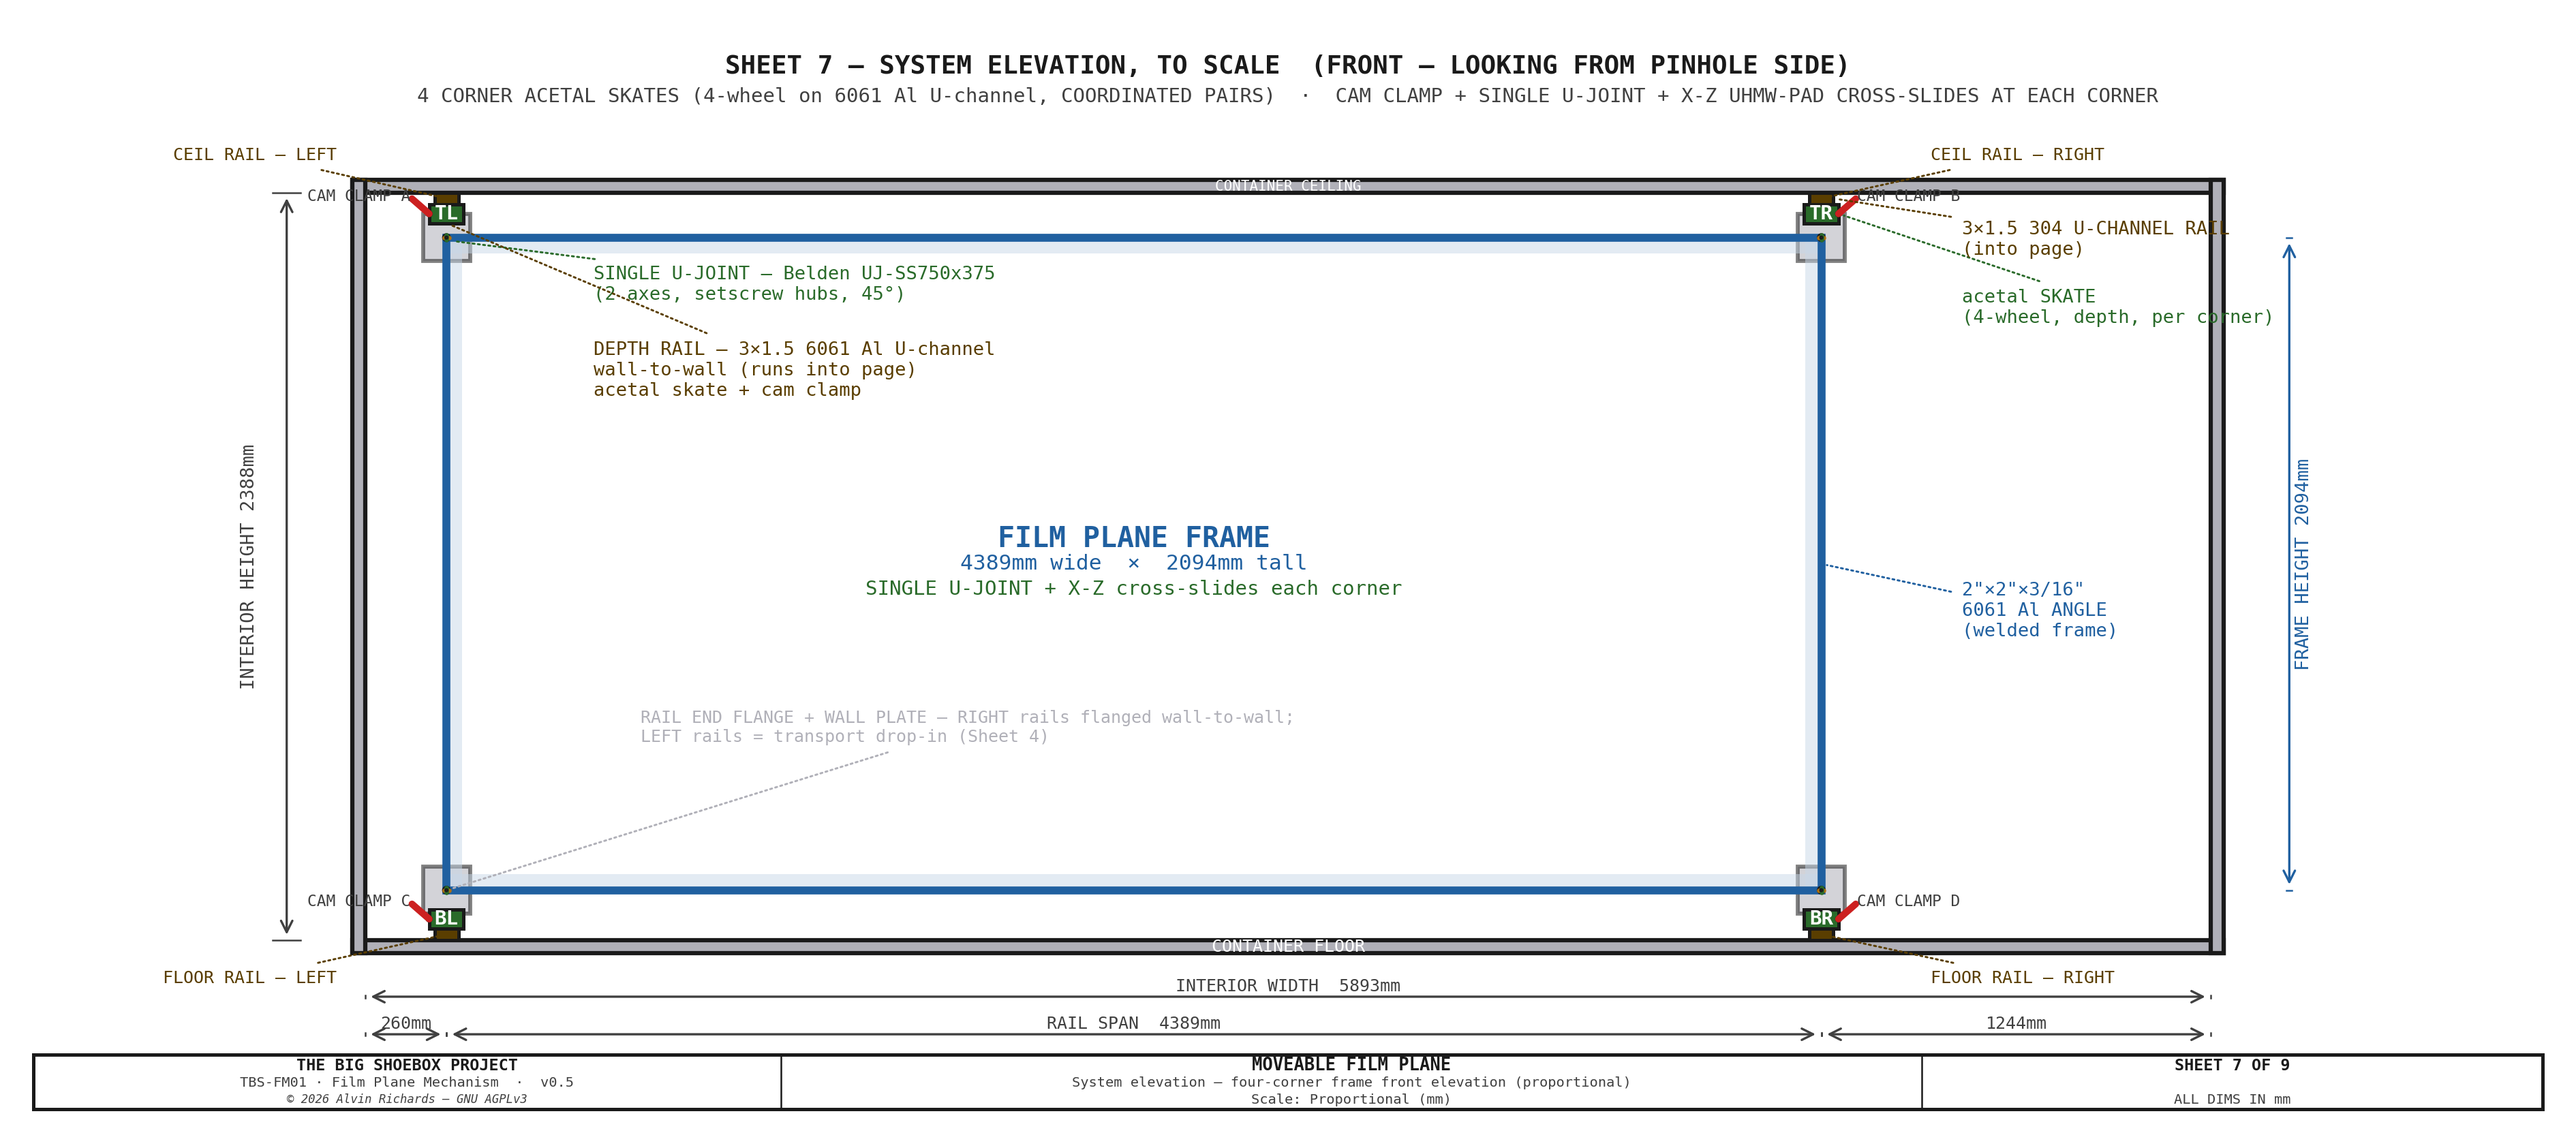
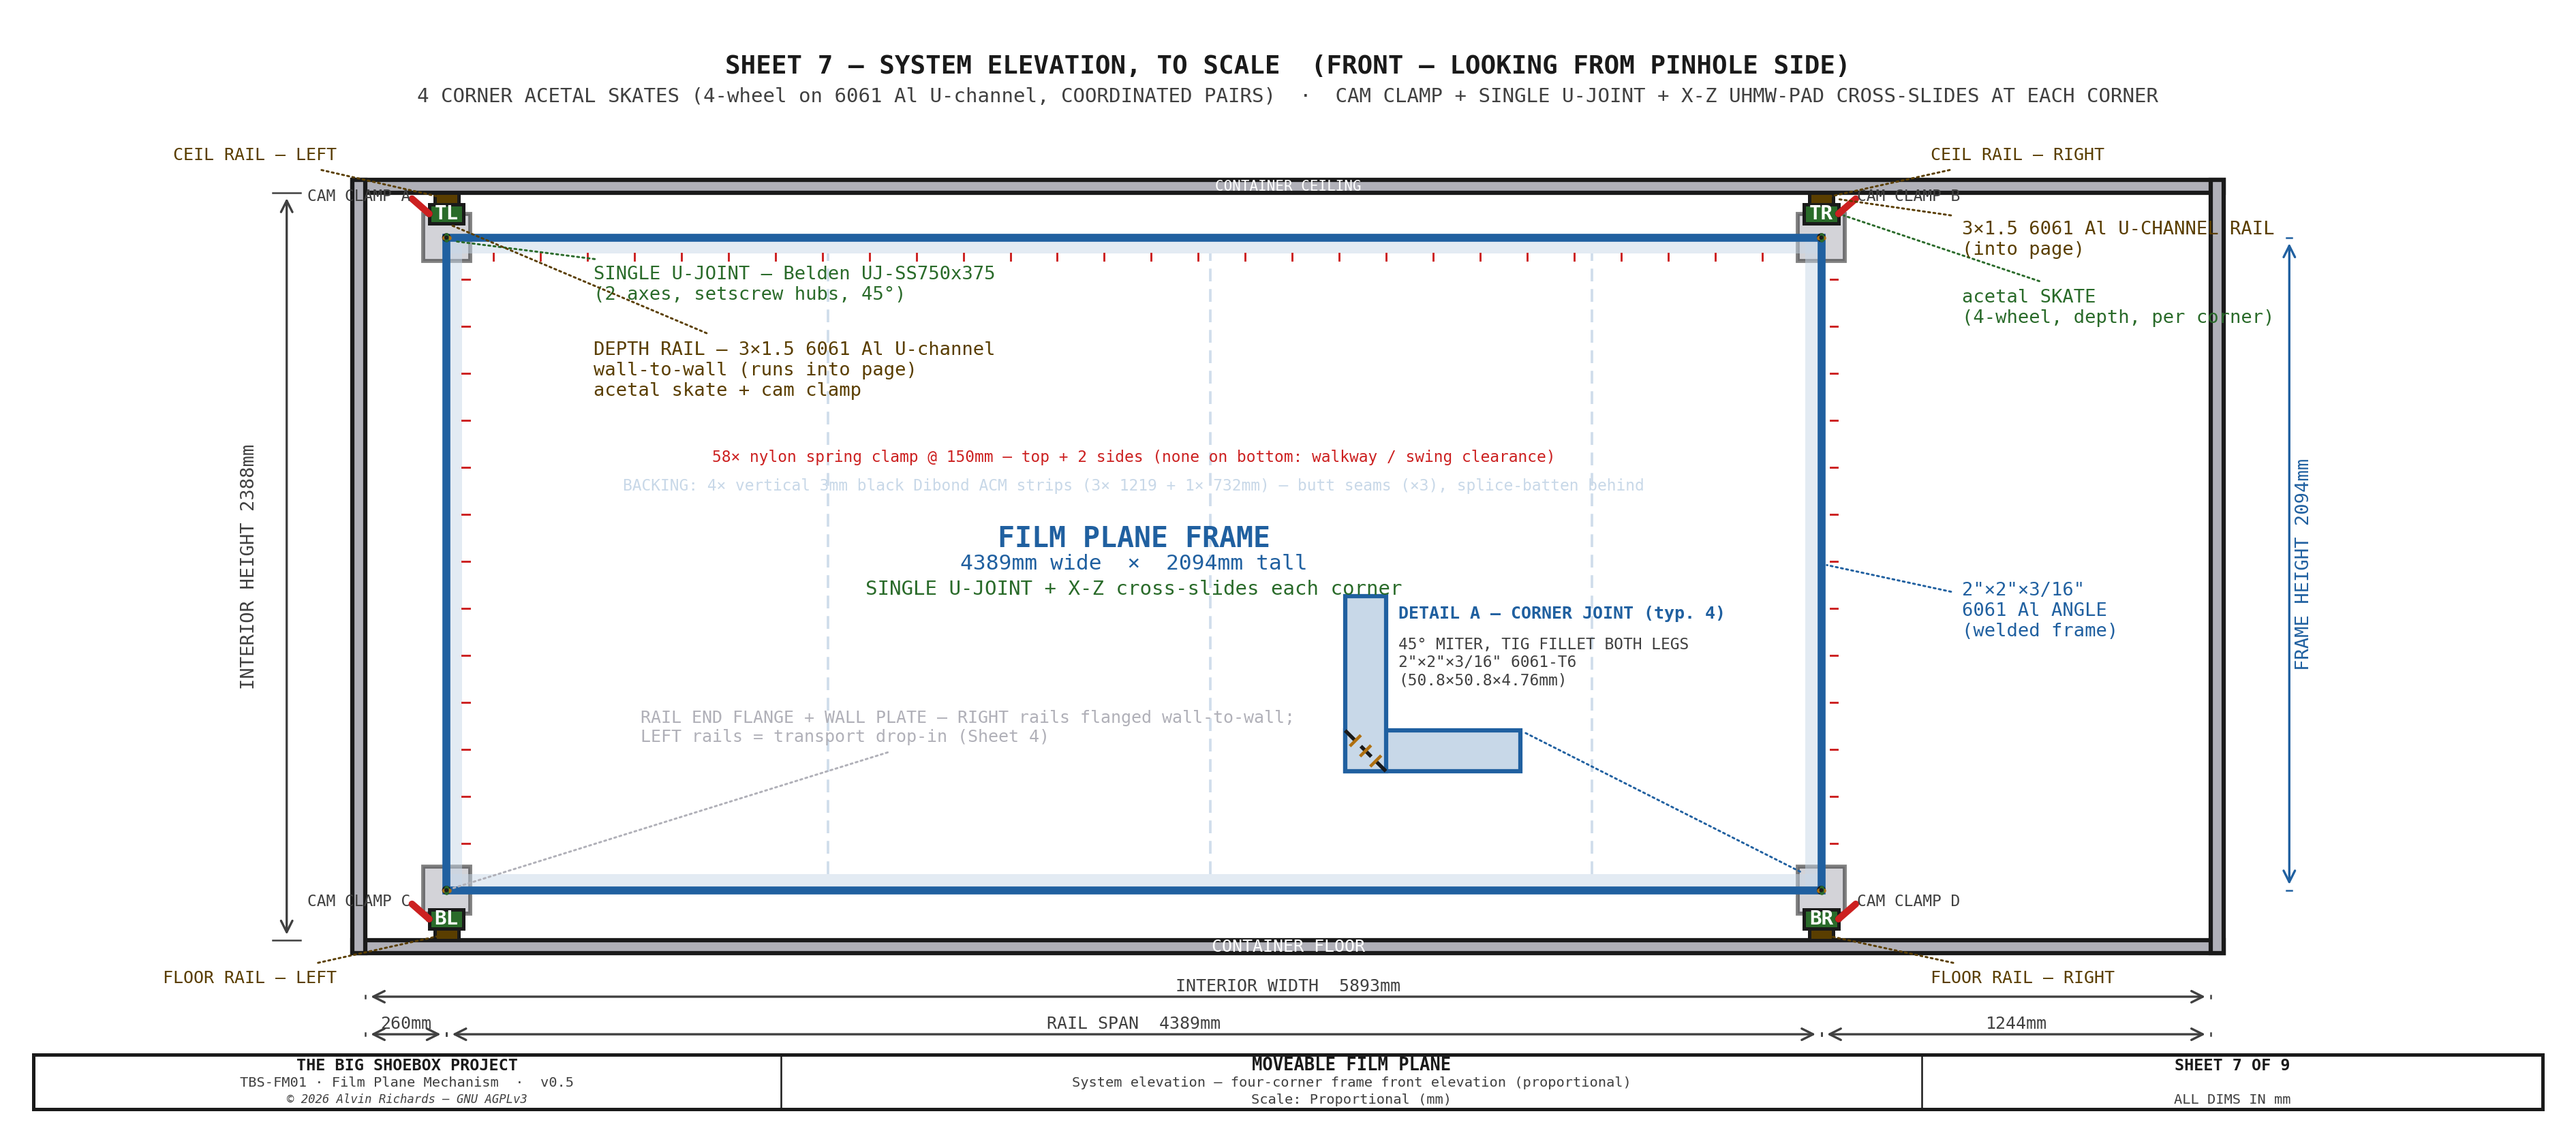
Film-plane Sheet 7: arrangement -> fabricator-grade frame GA
Added the frame-fabrication content: DETAIL A corner joint (45deg miter +
TIG fillet, per the joint decision) with the 2x2x3/16 6061-T6 angle callout;
ACM backing strip layout (4 vertical Dibond strips 3x1219+1x732, 3 butt
seams, battened); 58x nylon spring clamp stations @150mm (top + 2 sides,
none on bottom). Fixed rail-material drift: was labeled both 304 and 6061-Al;
it is 6061-Al 76x38 U-channel throughout (incl. the Sheet-3 comment).

Sheets 1 & 2 to follow.

Changed region(s): [[0.4995, 0.5213, 0.6556, 0.7054], [0.281, 0.3987, 0.6243, 0.4293], [0.7804, 0.184, 0.8741, 0.2147]]

diff --git a/src/generators/generate_film_plane_mechanism.py b/src/generators/generate_film_plane_mechanism.py
@@ -706,7 +706,7 @@ def view_a(ax):
     film/ACM rises back up. Section A-A is cut through the bottom carriage."""
     ax.set_xlim(-60, 470); ax.set_ylim(110, 560); ax.set_aspect("equal"); ax.axis("off")
 
-    # depth RAIL at the TOP — 3×1.5 304 U-CHANNEL, web-vertical, runs in Yd (BEHIND the carriage plate)
+    # depth RAIL at the TOP — 3×1.5 6061 Al U-CHANNEL, web-vertical, runs in Yd (BEHIND the carriage plate)
     ax.add_patch(plt.Rectangle((-30, 232), 420, 76, fc=C_STEEL, ec=OUT, lw=1.0, zorder=3))
     ax.plot([-30, 390], [237, 237], color=OUT, lw=0.8, zorder=4)                     # bottom flange (running surface)
     ax.plot([-30, 390], [303, 303], color=OUT, lw=0.8, zorder=4)                     # top flange
@@ -1697,6 +1697,50 @@ def sheet7():
             "SINGLE U-JOINT + X-Z cross-slides each corner",
             color=MECH, fontsize=7, ha="center", va="center", **FONT, zorder=11)
 
+    # ═══ FABRICATION GA (Sheet 7 fab-grade) — ACM backing · muslin clamps · corner joint ═══
+    # ── ACM backing: 4 vertical 3mm black Dibond strips, 3 butt seams, splice-battened ──
+    ACM_STRIP_W = 1219                                    # Dibond sheet width (48")
+    seam_xs = [fp_left + ACM_STRIP_W * i for i in (1, 2, 3)]   # 1479 / 2698 / 3917
+    for sx in seam_xs:
+        ax.plot([sx, sx], [fp_bot + frame_t, fp_top - frame_t],
+                color=STRUCT2, lw=0.9, ls=(0, (5, 3)), zorder=6, alpha=0.85)
+    ax.text(fp_cx, fp_cz + 250,
+            f"BACKING: 4× vertical 3mm black Dibond ACM strips (3× {ACM_STRIP_W} + 1× "
+            f"{FP_W - 3 * ACM_STRIP_W}mm) — butt seams (×3), splice-batten behind",
+            color=STRUCT2, fontsize=5.5, ha="center", va="center", **FONT, zorder=6)
+
+    # ── Muslin clamp stations: CLAMP_N_TOTAL nylon spring clamps @ CLAMP_SPACING (top + 2 sides) ──
+    n_top = int(round((fp_right - fp_left) / CLAMP_SPACING))
+    for i in range(1, n_top):
+        tx = fp_left + i * CLAMP_SPACING
+        ax.plot([tx, tx], [fp_top - frame_t, fp_top - frame_t - 22], color=C_T3, lw=0.7, zorder=9)
+    n_side = int(round((fp_top - fp_bot) / CLAMP_SPACING))
+    for ex, sdir in [(fp_left, 1), (fp_right, -1)]:
+        for i in range(1, n_side):
+            tz = fp_bot + i * CLAMP_SPACING
+            ax.plot([ex + frame_t, ex + frame_t + sdir * 22], [tz, tz], color=C_T3, lw=0.7, zorder=9)
+    ax.text(fp_cx, fp_cz + 340,
+            f"{CLAMP_N_TOTAL}× nylon spring clamp @ {CLAMP_SPACING}mm — top + 2 sides "
+            f"(none on bottom: walkway / swing clearance)",
+            color=C_T3, fontsize=5.5, ha="center", va="center", **FONT, zorder=9)
+
+    # ── DETAIL A — frame corner joint (45° miter + TIG-welded), blow-up from BR corner ──
+    dbx, dbz = fp_right - 1520, fp_bot + 380          # blow-up outer corner (open lower-right interior)
+    dleg, dthk = 560, 130                             # blow-up leg length + angle-leg thickness
+    ax.add_patch(Rectangle((dbx, dbz), dleg, dthk, fc=STRUCT2, ec=C_FLAT, lw=1.5, zorder=10))  # horiz leg
+    ax.add_patch(Rectangle((dbx, dbz), dthk, dleg, fc=STRUCT2, ec=C_FLAT, lw=1.5, zorder=10))  # vert leg
+    ax.plot([dbx, dbx + dthk], [dbz + dthk, dbz], color=WHITE, lw=1.3, ls=(0, (4, 2)), zorder=11)  # 45° miter
+    for t in (0.25, 0.5, 0.75):                       # fillet-weld ticks across the miter
+        mx, mz = dbx + dthk * (1 - t), dbz + dthk * t
+        ax.plot([mx - 14, mx + 14], [mz - 14, mz + 14], color=C_T2, lw=1.1, zorder=12)
+    ax.text(dbx + dthk + 40, dbz + dleg - 30, "DETAIL A — CORNER JOINT (typ. 4)",
+            color=C_FLAT, fontsize=6, ha="left", va="top", fontweight="bold", **FONT, zorder=12)
+    ax.text(dbx + dthk + 40, dbz + dleg - 130,
+            "45° MITER, TIG FILLET BOTH LEGS\n2\"×2\"×3/16\" 6061-T6\n(50.8×50.8×4.76mm)",
+            color=DIM, fontsize=5.5, ha="left", va="top", **FONT, zorder=12)
+    leader(ax, fp_right - frame_t, fp_bot + frame_t, dbx + dleg, dbz + dthk,
+           "", color=C_FLAT, ha="left", fs=5, font=FONT)
+
     # ── Leaders ───────────────────────────────────────────────────────────────
     # U-joint leader (from TL joint) — sits highest
     tl_cy = FH - rail_h - carr_h
@@ -1720,7 +1764,7 @@ def sheet7():
     # Rail leader (from TR ceiling depth rail)
     leader(ax, RAIL_X_R + rail_len / 2, FH - rail_h / 2,
            RAIL_X_R + 450, FH - 150,
-           "3×1.5 304 U-CHANNEL RAIL\n(into page)",
+           "3×1.5 6061 Al U-CHANNEL RAIL\n(into page)",
            color=RAIL, ha="left", fs=6.5, font=FONT)
 
     # Frame leader (from right side midpoint)

diff --git a/RELEASE.md b/RELEASE.md
@@ -24,6 +24,13 @@ file** — a release must not ship without a changelog entry:
 
 ## [Unreleased]
 
+- **Film-plane blueprint: Sheet 7 upgraded from system-arrangement to fabricator-grade GA.** Added the
+  frame-fabrication content a shop needs: DETAIL A corner joint (45° miter + TIG fillet, per the joint
+  decision) with the 2"×2"×3/16" 6061-T6 angle callout; the ACM backing strip layout (4 vertical Dibond
+  strips, 3× 1219 + 1× 732 mm, 3 butt seams, splice-battened); and the 58× nylon-spring-clamp stations
+  @ 150 mm (top + 2 sides). Also fixed a rail-material drift — the rail was labeled both "304" and
+  "6061-Al"; it is 6061-Al 76×38 U-channel throughout now. (Sheets 1 & 2 to follow.)
+
 - **Film-plane blueprint: fixed stale `X150` left-rail labels** on the 2D sheets — the corner-edge
   resolution moved the left rail to X260 (`FP_X_L`) and the geometry auto-followed the constant, but
   five hardcoded callout/comment strings still read "X150". Now reference `RAIL_X_L` so they can't drift
